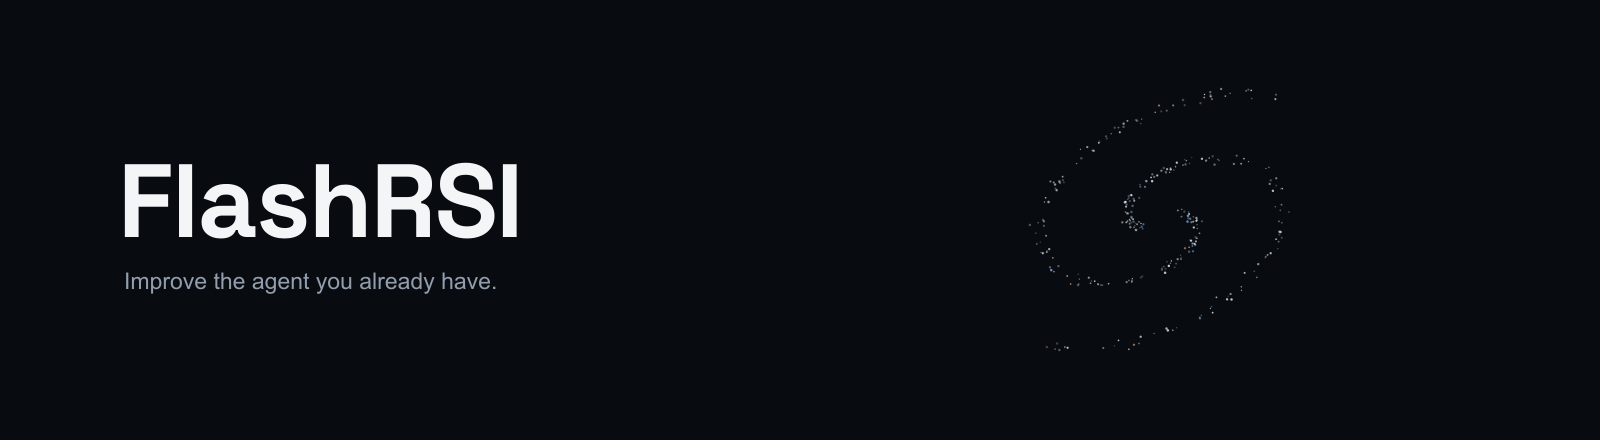
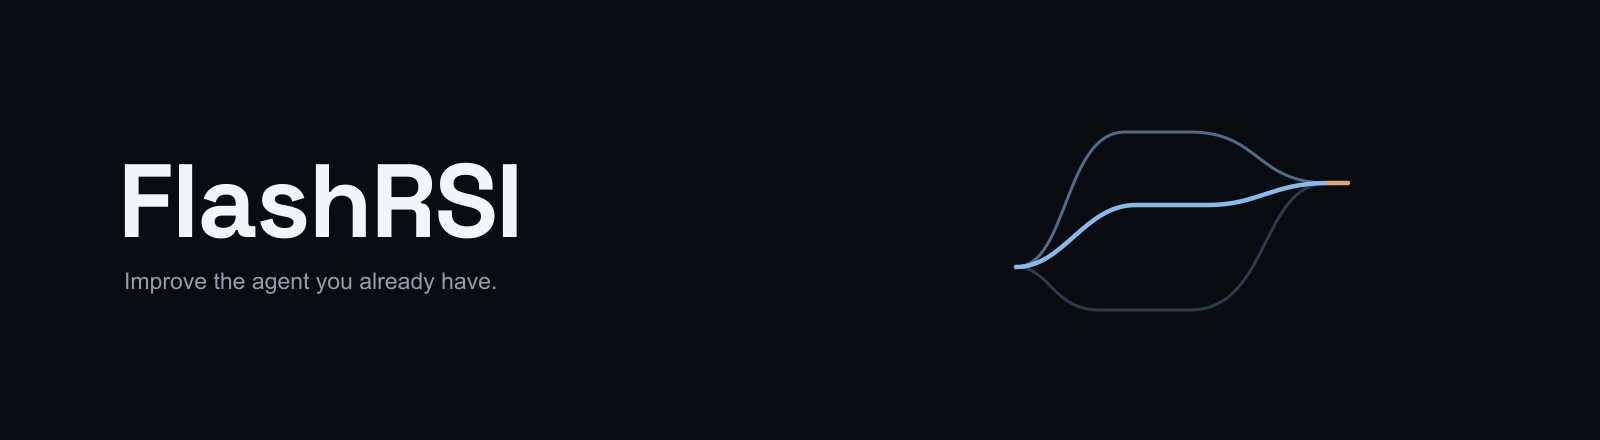
docs: replace cover galaxy with branching paths

diff --git a/scripts/render_readme_cover.py b/scripts/render_readme_cover.py
@@ -5,14 +5,12 @@
 # ///
 """Generate the minimal, self-contained README cover SVG.
 
-Run with uv run --script scripts/render_readme_cover.py. The particle motif is
-deterministic; cover.png is a separately rasterized preview of the same SVG.
+Run with uv run --script scripts/render_readme_cover.py. The cover.png file is a
+separately rasterized preview of the same SVG.
 """
 
 from __future__ import annotations
 
-import math
-import random
 from pathlib import Path
 
 from fontTools.pens.svgPathPen import SVGPathPen
@@ -42,36 +40,19 @@ def wordmark():
 
 
 def render():
-    rng = random.Random(20261028)
-    stars = []
-    for _ in range(300):
-        distance = rng.random()
-        radius = 18 + 177 * distance
-        angle = 5.7 * distance + rng.choice((0, math.pi))
-        angle += rng.gauss(0, 0.15)
-        x = radius * math.cos(angle)
-        y = radius * math.sin(angle) * 0.62
-        tilt = -0.4
-        px = 1162 + x * math.cos(tilt) - y * math.sin(tilt)
-        py = 221 + x * math.sin(tilt) + y * math.cos(tilt)
-        size = rng.uniform(0.65, 1.3)
-        color = rng.choices((WHITE, BLUE, ORANGE), weights=(0.70, 0.26, 0.04))[0]
-        opacity = rng.uniform(0.22, 0.8)
-        stars.append(
-            f'<circle cx="{px:.2f}" cy="{py:.2f}" r="{size:.2f}" '
-            f'fill="{color}" opacity="{opacity:.2f}"/>'
-        )
-    particles = "\n    ".join(stars)
     return f'''<svg xmlns="http://www.w3.org/2000/svg" width="{WIDTH}" height="{HEIGHT}" viewBox="0 0 {WIDTH} {HEIGHT}" role="img" aria-labelledby="cover-title cover-desc">
   <title id="cover-title">FlashRSI — Improve the agent you already have.</title>
-  <desc id="cover-desc">A white FlashRSI wordmark and a small, quiet spiral of blue-white points on a plain dark background.</desc>
+  <desc id="cover-desc">A white FlashRSI wordmark and three paths that branch apart and converge into a new direction, on a plain dark background.</desc>
   <rect width="{WIDTH}" height="{HEIGHT}" fill="{BACKGROUND}"/>
   {wordmark()}
   <g font-family="Arial, Helvetica, sans-serif">
     <text x="124" y="289" fill="#929EAD" font-size="23">Improve the agent you already have.</text>
   </g>
-  <g>
-    {particles}
+  <g fill="none" stroke-linecap="round" stroke-linejoin="round">
+    <path d="M1016 267 C1068 267 1064 132 1125 132 H1190 C1260 132 1256 183 1328 183" stroke="#526B88" stroke-width="3"/>
+    <path d="M1016 267 C1050 267 1052 310 1100 310 H1190 C1270 310 1260 183 1328 183" stroke="#2D3A4B" stroke-width="3"/>
+    <path d="M1016 267 C1064 267 1084 205 1136 205 H1208 C1258 205 1272 183 1328 183" stroke="{BLUE}" stroke-width="4.5"/>
+    <path d="M1328 183 H1348" stroke="{ORANGE}" stroke-width="4.5"/>
   </g>
 </svg>
 '''

diff --git a/assets/readme/cover-design.md b/assets/readme/cover-design.md
@@ -1,9 +1,9 @@
 # FlashRSI cover
 
-The cover uses a plain near-black background, a large white wordmark, and a compact blue-white particle motif. The restrained star motif retains a connection to the user's deep-space reference. Most of the canvas is open space.
+The cover uses a plain near-black background, a large white wordmark, and three paths that branch apart and converge. The motif suggests exploring candidate changes and selecting a version to carry forward. A light-blue path leads into a small warm-orange continuation; quieter branches give it context. Most of the canvas is open space.
 
 The demo shares the background and typography. Three open reels use a subtle selected row. Four borderless plots draw thin colored lines. The demo stays before Quick start; its curves are illustrative.
 
 The FlashRSI wordmark uses Space Grotesk Bold with close spacing. Its glyphs are outlined in the cover SVG to preserve the typeface across browsers. The bundled font and its SIL Open Font License are in [assets/fonts](../fonts/).
 
-Run `uv run --script scripts/render_readme_cover.py` to regenerate [cover.svg](cover.svg), or edit the SVG directly. [cover.png](cover.png) is a rasterized preview of the same SVG. The SVG is static and self-contained, with deterministic particle positions. The demo GIF is generated by [render_readme_hero.py](../../scripts/render_readme_hero.py).
+Run `uv run --script scripts/render_readme_cover.py` to regenerate [cover.svg](cover.svg), or edit the SVG directly. [cover.png](cover.png) is a rasterized preview of the same SVG. The SVG is static and self-contained. The demo GIF is generated by [render_readme_hero.py](../../scripts/render_readme_hero.py).

diff --git a/README.zh-CN.md b/README.zh-CN.md
@@ -1,5 +1,5 @@
 <p align="center">
-  <img src="assets/readme/cover.svg" alt="FlashRSI 品牌封面：纯深色背景上的白色字标与小型蓝白星点旋臂。" width="100%">
+  <img src="assets/readme/cover.svg" alt="FlashRSI 品牌封面：纯深色背景上的白色字标，以及分开探索后重新汇合的三条路径。" width="100%">
 </p>
 
 <h1 align="center">FlashRSI</h1>

diff --git a/README.md b/README.md
@@ -1,5 +1,5 @@
 <p align="center">
-  <img src="assets/readme/cover.svg" alt="FlashRSI: a white wordmark and a small blue-white particle spiral on a plain dark background." width="100%">
+  <img src="assets/readme/cover.svg" alt="FlashRSI: a white wordmark beside three branching paths that converge, on a plain dark background." width="100%">
 </p>
 
 <h1 align="center">FlashRSI</h1>
